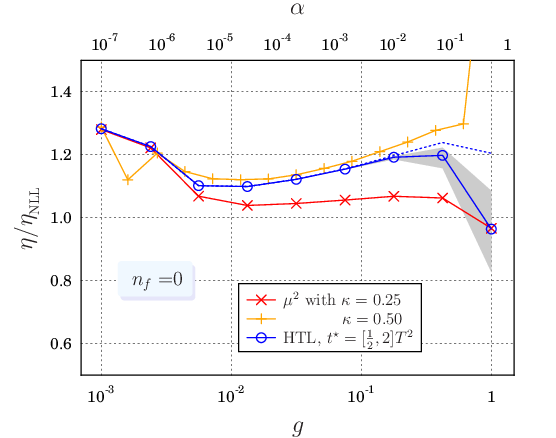
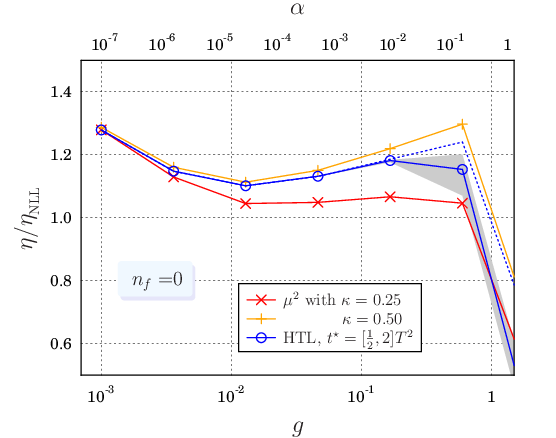
170530

Changed region(s): [[0.1529, 0.1484, 0.9478, 0.8607], [0.214, 0.3858, 0.2446, 0.4155]]

diff --git a/src/main.c b/src/main.c
@@ -21,7 +21,7 @@
                               // ------------------------
 int             HTL  = 1   ;  // =1 for HTL, =0 for M_eff
 double        kappa  = 1.00;  // kappa*mD^2
-int           calls  =-1e6 ;  // MC calls {if > 0 : GSL, else hcubature}
+int           calls  =-1e5 ;  // MC calls {if > 0 : GSL, else hcubature}
 int         alf_run  = 0   ;  // =1 for running coupling
 double       lambda  = 1.0 ;  // lambda_{QCD}
 double            J  = 1.0 ;  // HTL cut
@@ -43,8 +43,8 @@ void   rate_E(double,double,double);
 
 int main(int argc, char **argv) {                                        // Main fnc: to explore... T, alpha  dependence
 
-  C_integrand = &C_integrand_qo;
-  points = 10; Temp=1.;Nf=0;
+  C_integrand = &C_integrand_st;
+  points = 20; Temp=1.;Nf=0;
 
   while (argc--) Nf=(int) atoi(*argv++);
   /*for (int nf=0;nf<1;nf++) {                                     // loop over active quark flavours*/
@@ -59,8 +59,9 @@ int main(int argc, char **argv) {                                        // Main
     /*HTL = 1 ; kappa=1.00; rate_E(1.,8.,2.0);*/
     /*HTL = 1 ; kappa=1.00; rate_E(1.,8.,5.0);*/
     /*HTL = 1 ; kappa=1.00; rate_E(1.,20.,2.0);*/
-    HTL = 1 ; kappa=1.00; rate_E(1.,10.,.8);
-    HTL = 1 ; kappa=1.00; rate_E(1.,20.,2.0);
+    /*HTL = 1 ; kappa=1.00; rate_E(1.,80.,.8);*/
+    /*HTL = 1 ; kappa=1.00; rate_E(1.,200.,2.0);*/
+    HTL = 1 ; kappa=1.00; rate_E(1.,1000.,10.0);
 
     /*HTL = 1 ; kappa=1.00; rate_T(1.,8.,.8);*/
     /*HTL = 1 ; kappa=1.00; rate_T(.1,4.,3.);*/
@@ -69,9 +70,9 @@ int main(int argc, char **argv) {                                        // Main
     /*HTL = 1 ; kappa=1.00; rate_T(1e-3,1e0);*/
 
     // fixed alpha
-    /*HTL = 0 ; kappa=0.25; eval_g(1e-3,1e2);*/
-    /*HTL = 0 ; kappa=0.50; eval_g(1e-3,1e2);*/
-    /*HTL = 1 ; kappa=1.00; eval_g(1e-3,1e2);*/
+    /*HTL = 0 ; kappa=0.25; eval_g(1e-3,1e1);*/
+    /*HTL = 0 ; kappa=0.50; eval_g(1e-3,1e1);*/
+    /*HTL = 1 ; kappa=1.00; eval_g(1e-3,1e1);*/
 
     // T-dep
     /*HTL = 0 ; kappa=0.5;  eval_T(1.0,9.);*/
@@ -154,8 +155,8 @@ void rate_E(double Emin, double Emax, double TT)
 { alf_run=1; Temp = TT; double res1, res2, res3, res4; double Ene; 
   //g=sqrt(4.*M_PI*1.);
 
-       if (!HTL) sprintf(fname, "out/data/RT_T%.1f_kappa%.2f_nf%d_running-q.dat", Temp, kappa, Nf  );
-  else if  (HTL) sprintf(fname, "out/data/RT_T%.1f_HTL_nf%d_running-q.dat", Temp, Nf               );
+       if (!HTL) sprintf(fname, "out/data/RT_T%.1f_kappa%.2f_nf%d_running-g.dat", Temp, kappa, Nf  );
+  else if  (HTL) sprintf(fname, "out/data/RT_T%.1f_HTL_nf%d_running-g.dat", Temp, Nf               );
        /*if (!HTL) sprintf(fname, "out/data/RT_T%.1f_kappa%.2f_nf%d_fixed-g.dat", Temp, kappa, Nf  );*/
   /*else if  (HTL) sprintf(fname, "out/data/RT_T%.1f_HTL_nf%d_fixed-g.dat", Temp, Nf               );*/
 
@@ -172,8 +173,8 @@ void rate_E(double Emin, double Emax, double TT)
   printf("  ---------------------------------------------------------\n" );
   for(int i=0; i<points; i++) {
     /*g = gmax*pow(10., -(points -1 - i)*( log(gmax/gmin)/log(10.))/((double) points - 1));*/
-    Ene = Emin + (Emax-Emin)*( ((double) i)/((double) points-1) );
-    /*Ene = Emax*pow(10., -(points -1 - i)*( log(Emax/Emin)/log(10.))/((double) points - 1));*/
+    /*Ene = Emin + (Emax-Emin)*( ((double) i)/((double) points-1) );*/
+    Ene = Emax*pow(10., -(points -1 - i)*( log(Emax/Emin)/log(10.))/((double) points - 1));
     printf("  :  %03.6f   :", Ene/Temp );                        fprintf(file, "%.8f",Ene/Temp);
     J = .0;  res4 =     Rate(Ene)/Temp;
     J = .5;  res3 =     Rate(Ene)/Temp;

diff --git a/src/integrand.c b/src/integrand.c
@@ -54,6 +54,7 @@ double qForm(double c1, double c2, double c3, double c4,  // the chi's
                   +   c2*c2              -  2.*c2*c3*P2(x23)  - 2.*c2*c4*P2(x24)
                                          +  c3*c3             + 2.*c3*c4*P2(x34)
                                                               + c4*c4             ;
+    if (XXXX<0.) XXXX=0.;
     return XXXX/4.;
     /*return 1.;*/
 }
@@ -101,6 +102,7 @@ double C_integrand_st(double *args, size_t dim, void *p) {         // the integr
   for (int i=0;i<nR;i++) {
     /*R = all_R[i];*/
     /*printf("%.4f \n", (double) all_R[i].multiplicity);*/
+    /*if (result<0.) { printf("\n NEG: %d \n", i);}*/
     result += kernel(e, s, t, all_R[i])                         // combine reaction kernels
               *qForm( 
                       chi( e[0], all_R[i].particles[0] ),
@@ -116,7 +118,8 @@ double C_integrand_st(double *args, size_t dim, void *p) {         // the integr
             *( (1./16.)*(1./pow(2.*M_PI, 6)) )*.5            // prefactors
             *2.                                    ;         // for \xi_\pm sols
 
-  return result;
+  /*if (result<0.) { printf("\n NEG: %g \n", result);}*/
+  return fabs(result);
 };
 
 /*-----------------------------------------------------------------------------------------------*/
@@ -224,8 +227,8 @@ double RATE_integrand(double *args, size_t dim, void *p) {         // the integr
     /*printf("%.4f \n", (double) all_R[i].multiplicity);*/
     /*printf("%.4f \n", (double) degen(all_R[i].particles[0]) );*/
     switch(all_R[i].particles[0]) {
-    case F: count=1.; break;
-    case B: count=0.; break;
+    case F: count=0.; break;
+    case B: count=1.; break;
     }
     /*printf("%.4f \n", (double) count );*/
     result += count*kernel(e, s, t, all_R[i])/( degen(all_R[i].particles[0])*

diff --git a/src/qcd.c b/src/qcd.c
@@ -51,7 +51,8 @@ double *M_2(double e[4], double s, double t) {          // energies & Mandelstam
   double                                                                // parametric dependence
     at = alphas(t),                     at2 = at*at,
     au = alphas(u),                     au2 = au*au,
-    as = alphas(s),                     as2 = as*as,
+    /*as = alphas(s),                     as2 = as*as,*/
+    as = alphas(pow(s*t*u,0.3333)),     as2 = as*as,
     av = alphas(pow(s*t*u,0.3333)),     av2 = av*av;                    // thermal masses :
 
   double                                                          mG2 = kappa*mD2*at*pow(Temp,2), 
@@ -123,6 +124,8 @@ double *M_2(double e[4], double s, double t) {          // energies & Mandelstam
   /*if (M2[0]<0) {printf("rB = %.5f, alf = %.5f \n", rB1, at);};*/
   /*printf("%g\n", M2[0]);*/
 
+  for(int i=0; i<7; i++) { if (M2[i]<0.) { M2[i]=0.; };
+      if (M2[i]<0.) printf("rB = %.5f, alf = %.5f \n", rB1, at);};
   for(int i=0; i<7; i++) M2[i] *= pow(4.*M_PI,2);                                       return M2;
 }
 

diff --git a/src/basis.c b/src/basis.c
@@ -59,7 +59,7 @@ double eta() {
       /*
        * Trick to calculate the ``off-diagonal'' elements:
        *
-       *      <1|C|2>  =  ( <1+2|C|1+2> - <1|C|1> - <2|C|2> ,
+       *      <1|C|2>  =  .5*( <1+2|C|1+2> - <1|C|1> - <2|C|2> ) ,
        *
        *  using the linearity of inner prod & symmetry.
        *
@@ -89,6 +89,6 @@ double eta() {
   double qF;
   gsl_blas_ddot(&ss.vector, x, &qF);                      // quadratic form ~ AMY.1  (6.7)
   free(p);free(x);free(cM);free(sV);                      // free mem.
-  return qF/15.;
+  return fabs(qF)/15.;
   }
 }
